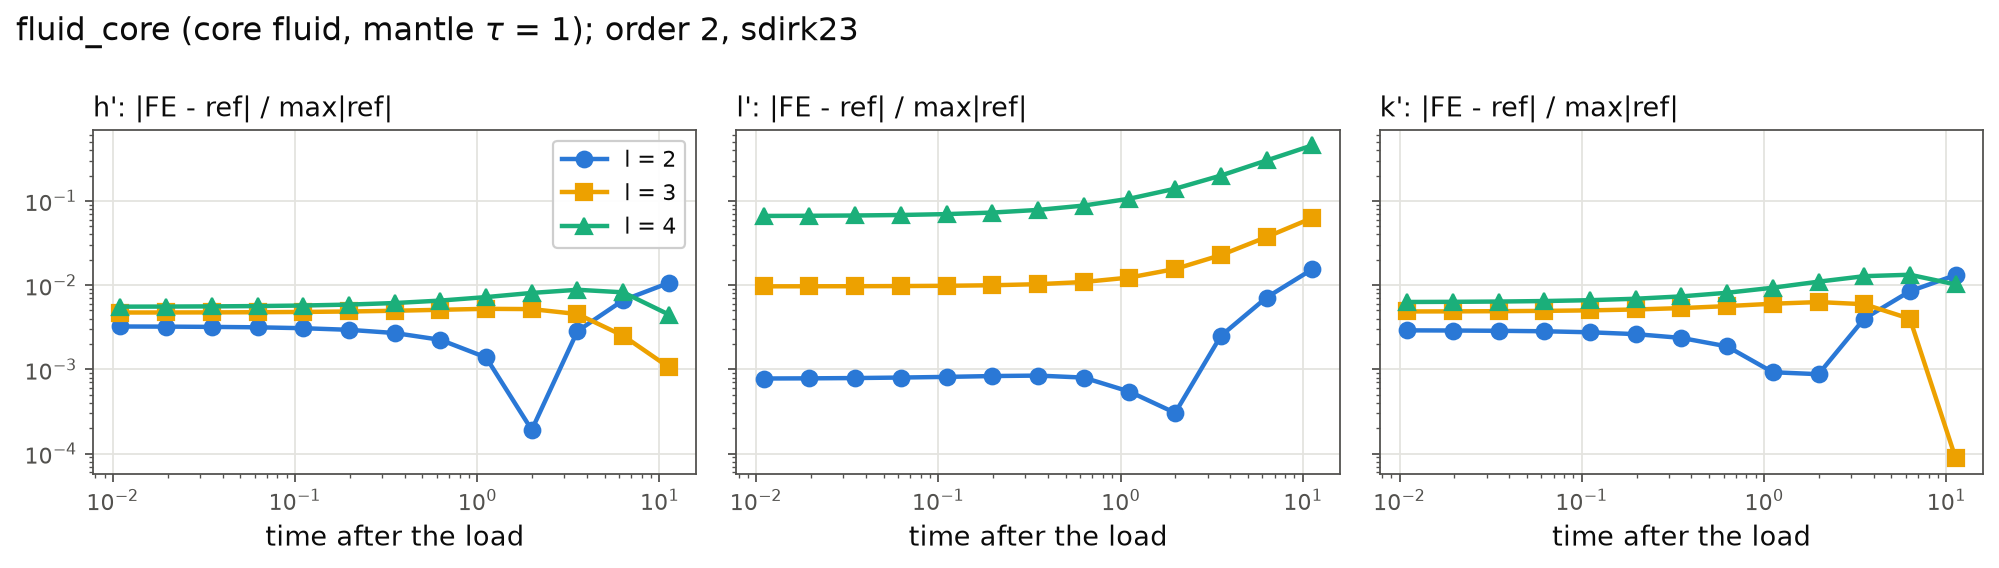
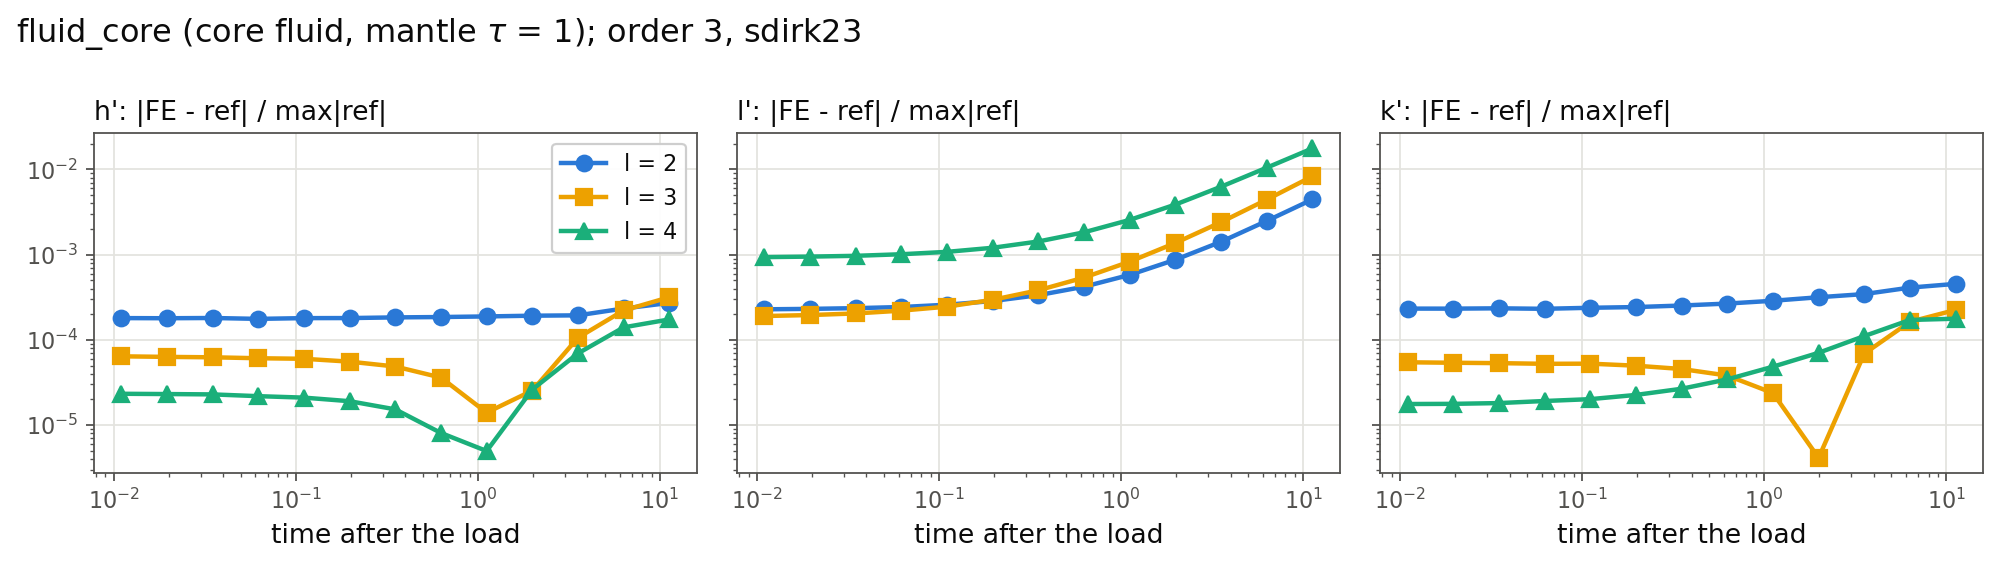
updating benchmarks

diff --git a/doc/benchmarks.tex b/doc/benchmarks.tex
@@ -515,14 +515,15 @@ makes the cases and runs the sweeps; \code{plot.py} and
 \code{dahlen} & Eulerian, fluid eliminated. The fluid enters through the interface terms (F2), (F3) and the fluid mass term (F1) of the potential equation; \code{-cmb} selects the interface treatment (\S\ref{sec:cmb}). \\
 \code{gauged} & Eulerian, the fluid in the displacement space with its bulk modulus and a gauge shear penalty $\eps\,2\mu_g\,\mathrm{dev}\,e(\vu):\mathrm{dev}\,e(\vu')$, $\eps=10^{-2}$ (\code{-geps}), three iterated-Tikhonov refinements per solve (\code{-gref}); \code{-gauge-kkt} replaces the penalty by the exact-gauge saddle (\S\ref{sec:solver-meas}). \\
 \code{referential} & welded gauged referential formulation: bare moduli from $p_0$, equilibrium stress $\mathbf{S}_e=-p_0\mathbf{I}$, the same gauge penalty, prescribed vacuum extension in the buffer. \\
+\code{maxwell} & the referential problem with the fluid treated by MAXWELL RELAXATION (\code{SetFluid}; \code{doc/static\_fluid\_core.tex}, ``The Maxwell relaxation method''): the secular static response by backward-Euler relaxation of an artificial Maxwell core, stopping on the solid increment; \code{-mxbeta} sets the physical-phase $\Delta t/\tau$ (default 3, the $N^2<0$-safe choice). Per-degree stop diagnostics are printed; the degree-1 stop floor on a strongly non-neutral model is the ambiguity band, reported rather than hidden. \\
 \code{slip} & slipping fluid--solid interface: broken displacement pair, single-valued potential; the normal-jump constraint by penalty ($\theta=100$, \code{-theta}) and augmented Lagrangian (8 sweeps, \code{-al}), the early sweeps at the loose relative tolerance $10^{-3}$ (\code{-sweep-tol}, tightened geometrically to the final tolerance); or by a KKT multiplier block (\code{-kkt}, multiplier order \code{-kkt-order}). \\
 \code{slip\_broken} & the same with the potential broken per region too (augmented Lagrangian only). \\
 \bottomrule
 \end{tabular}
 \end{center}
-\noindent Restrictions recorded in the code: the referential and slipping
-methods solve load problems only, so no tidal numbers and no radial
-profiles. The slipping methods support one fluid core inside one solid
+\noindent Restrictions recorded in the code: the referential family
+(\code{referential}, \code{maxwell}) and the slipping methods solve
+load problems only, so no tidal numbers and no radial profiles. The slipping methods support one fluid core inside one solid
 shell, so no inner core. The Eulerian pair have two linear solvers, block
 MINRES (\code{-s 1}) and Schur-complement CG (\code{-s 0}); the referential
 family uses its own projected MINRES. In shift runs
@@ -561,9 +562,32 @@ welded and free-slip solves drift non-monotonically within an envelope of
 about $0.3\,\%$ under $p$-refinement and move with the fluid regulariser;
 neither (i) nor (ii) is resolved separately from (iii) at the resolutions
 run. Offsets of the welded methods against pyslfp on \code{fluid\_core} are
-therefore not attributed to any one of the three. The corresponding 3-D
-decomposition (on \code{aw\_core}) has not been run, nor has the
-$N^2$-scaling of the 2-D envelope.
+therefore not attributed to any one of the three. The
+$N^2$-scaling of the 2-D envelope has not been run.
+
+\paragraph{The 3-D adjudication (8 October 2026).} The \code{aw\_core}
+null test is run and settles the degree-1 question: on the neutral twin
+($h=0.3$, order 2) the degree-1 $h'$ of \code{referential}
+($-1.2462882$), \code{slip} ($-1.2463654$) and \code{maxwell}
+($-1.2463161$) coincide to $6\times10^{-5}$, so the 1--2.6\,\%
+degree-1 welded--slip gap on \code{fluid\_core} is genuine
+non-removability physics, not machinery. On \code{fluid\_core} the
+\code{maxwell} method lands on the welded cluster at every degree
+($h'_2$ within $3.4\times10^{-4}$ of \code{referential}; degree-1
+$h'$ $-1.2442602$, i.e.\ $1.77\,\%$ from Dahlen against welded
+$1.87\,\%$ and \code{slip\_broken} $1.96\,\%$), with its degree-1
+relaxation stopping at an increment floor of $\sim10^{-2}$ --- the
+soft core--shell translation is the band's soft mode, and no
+full-elastic method resolves below the band there (under
+$p$-refinement to order 3 the referential $h'_2$ itself moves
+$1.4\,\%$, the Maxwell $0.2\,\%$). The hierarchy this supports is the
+one of \code{doc/static\_fluid\_core.tex}, ``The status of the
+formulations'': free slip is the inviscid boundary-layer asymptotics
+of the dissipative completion, the Maxwell relaxation is the general
+method (and the honest one: its stop diagnostics report the band),
+Dahlen is its converged spherical closure, and the welded and
+slipping formulations are finite idealisations retained as
+instruments.
 
 \subsection{The CMB treatments}
 \label{sec:cmb}
@@ -2838,6 +2862,7 @@ the stored references (\code{viscoelastic/love/references/}):
 case & $h'$ & $k'$ & $l'_{2}$ / $l'_3$ / $l'_4$ & wall \\
 \midrule
 \code{fluid\_core}, $h=0.3$ & $0.5$--$1.1\times10^{-2}$ & $0.6$--$1.3\times10^{-2}$ & $1.5\times10^{-2}$ / $6.3\times10^{-2}$ / $0.46$ & 90\,s \\
+\code{fluid\_core}, $h=0.3$, order 3 & $1.7$--$3.2\times10^{-4}$ & $1.8$--$4.5\times10^{-4}$ & $4.5\times10^{-3}$ / $8.3\times10^{-3}$ / $1.8\times10^{-2}$ & 393\,s \\
 \code{homogeneous}, $h=0.3$ & $0.6$--$2.3\times10^{-2}$ & $0.7$--$2.9\times10^{-2}$ & $0.19$ / $0.40$ / $1.04$ & 38\,s \\
 \code{homogeneous}, $h=0.2$ & $0.2$--$1.0\times10^{-2}$ & $0.3$--$1.2\times10^{-2}$ & $0.08$ / $0.13$ / $0.30$ & 85\,s \\
 \code{homogeneous\_\allowbreak lithosphere} ($\tau=1,\infty$), $h=0.3$ & $0.3$--$1.0\times10^{-2}$ & $0.4$--$1.6\times10^{-2}$ & $1.8\times10^{-2}$ / $5.1\times10^{-2}$ / $0.10$ & 78\,s \\
@@ -2854,23 +2879,30 @@ $2.2\times10^{-2}\to1.0\times10^{-2}$ from $h=0.3$ to $0.2$), the
 relaxation part more slowly than the elastic part. $l'_4$ is the worst
 resolved: it is small, changes sign, and its error grows late, where the
 buoyancy modes start to matter. A Stehfest order of 16 moves the reference
-by less than $5\times10^{-4}$ there. The local campaign stage
-(\code{--stages viscoelastic plot}) reproduces the \code{fluid\_core} row.
+by less than $5\times10^{-4}$ there. Being spatial, these errors collapse
+under $p$-refinement: the order-3 row (8 October, same stepping) improves
+$h'$ and $k'$ by $16$--$75\times$ and the $l'$ column most dramatically
+--- $l'_4$ from $46\,\%$ to $1.8\,\%$, $l'_3$ from $6.3\,\%$ to
+$0.83\,\%$ --- at $4.4\times$ the wall time (the time stepping unchanged
+at 79 steps, confirming that nothing here is temporal). The local
+campaign stage (\code{--stages viscoelastic plot}) reproduces the
+order-2 \code{fluid\_core} row.
 
 \begin{figure}[H]
 \centering
 \includegraphics[width=0.75\textwidth]{ve_fc_history.png}
-\caption{Histories on a logarithmic time axis (\code{fluid\_core}, local
-campaign): reference (line) and FE (markers) at the 13 default times.}
+\caption{Histories on a logarithmic time axis (\code{fluid\_core},
+order 3): reference (line) and FE (markers) at the 13 default times.}
 \end{figure}
 
 \begin{figure}[H]
 \centering
 \includegraphics[width=0.85\textwidth]{ve_fc_error.png}
 \caption{Pointwise error over the history, relative to the largest
-reference value. The dip of $h'_2$ through zero near $t=2$ is why a
-single-time check would mislead: it scores $2\times10^{-4}$ there against
-a history error of $10^{-2}$.}
+reference value (order 3; the order-2 errors sit $16$--$75\times$
+higher, per the table). At order 2 the dip of $h'_2$ through zero near
+$t=2$ is why a single-time check would mislead: it scores
+$2\times10^{-4}$ there against a history error of $10^{-2}$.}
 \end{figure}
 
 \paragraph{Time series (Figure~\ref{fig:series}).}

diff --git a/doc/static_fluid_core.tex b/doc/static_fluid_core.tex
@@ -643,18 +643,28 @@ space. On \code{fluid\_core} the solver stops honestly at the
 plateau (increment floor $7\times10^{-4}$), landing between the
 welded and slip answers --- inside the band, as it must.
 
-\paragraph{The one caveat.} The discrete limit is the \emph{welded}
-limit: the fluid-relabelling suppression of the welded space is
-inherited, not released (the welded--slip gap at $N^2 \ne 0$ is
-gravitational, not elastic, so zero shear does not remove it). At
-$\ell \ge 2$ this is inside the band and immaterial; at degree 1 on
-non-neutral cores the three-dimensional evidence suggests a
-$\sim 2\,\%$ effect riding the soft core--shell translation. The
-referee for that question is not the slip formulation (itself a
-band-wanderer) but the converged spherical secular answer --- Dahlen
---- and the measurement (relaxation versus Dahlen at degree 1 on
-\code{fluid\_core}, with \code{aw\_core} as the null control) is the
-one open item between this method and unqualified production status.
+\paragraph{The one caveat, now measured.} The discrete limit is the
+\emph{welded} limit: the fluid-relabelling suppression of the welded
+space is inherited, not released (the welded--slip gap at
+$N^2 \ne 0$ is gravitational, not elastic, so zero shear does not
+remove it). The three-dimensional adjudication (8 October,
+\code{love\_benchmark}, \code{-method maxwell}): on the neutral
+control \code{aw\_core} the degree-1 welded, slip and Maxwell
+answers coincide to $6\times10^{-5}$ --- the suppression vanishes
+with $N^2$, as it must; on \code{fluid\_core} the Maxwell answer
+sits on the welded cluster at every degree, at degree 1
+$1.77\,\%$ from Dahlen (welded $1.87\,\%$, the slipping pair
+$2.0$--$4.2\,\%$), and its degree-1 relaxation stops at an
+increment floor of $\sim10^{-2}$: the soft core--shell translation
+is the band's own soft mode, and on a model with $|N^2|$ of order
+the scale no full-elastic method resolves below the band there
+(under $p$-refinement the welded answer itself moves $1.4\,\%$, the
+Maxwell $0.2\,\%$). The right reading is not a defect but the
+method's defining honesty: at $N^2 \ne 0$ the degree-1 static
+response \emph{is} defined only to the band, every formulation
+returns some point of it, and the relaxation is the one that reports
+the fact in its stop diagnostics. For near-neutral (Earth-like)
+cores the band closes and with it the caveat.
 
 %=====================================================================
 \section{Numerical evidence}
@@ -833,11 +843,12 @@ for the dynamic conjecture as well.
 Claim~\ref{claim:nonexist} and Proposition~\ref{prop:quotient} ---
 now best approached jointly with the dynamic argument above.
 (ii) The Maxwell relaxation (\S\ref{sec:maxwell}): the degree-1
-adjudication (relaxation versus Dahlen on \code{fluid\_core},
-\code{aw\_core} as control --- the one open question between the
-method and unqualified production status), the benchmark-grade
-Love-number runs, and the aspherical demonstration --- a static
-fluid-core response on a geometry where no other method exists.
+adjudication and the first benchmark-grade Love-number runs are done
+(8 October; the measured paragraph of \S\ref{sec:maxwell} and
+\code{doc/benchmarks.tex}, ``The 3-D adjudication''); remaining are
+the broader campaign (orders, resolutions, PREM-class models) and
+the aspherical demonstration --- a static fluid-core response on a
+geometry where no other method exists.
 (iii) A clean measurement of the band's $N^2$-scaling (the
 one-dimensional tool does each point in seconds; the current
 two-resolution estimator is noisy).

diff --git a/doc/planning/open_issues.md b/doc/planning/open_issues.md
@@ -304,15 +304,17 @@ Analytic continuous b in the constraint kernels had no effect in the lab.
 
 ### Which tangential slips are removable by relabelling (including N² = 0)
 
-**Status:** open; the N² = 0 premise is confirmed numerically in 2-D
-(7 Oct 2026, below), the 3-D `aw_core` degree-1 null test remains. The
-reference documents state the conservative
-position — tangential slip is not gauge in general; the slipping
-formulation is the general one; the welded gauged formulation is used
-where the suppressed slip is absent or removable, e.g. on spherically
-symmetric models, where welded and slipping solutions agree to
-discretisation level (1.1e-3 solid displacement on the 2-D two-layer
-disc). The N² = 0 case is deliberately left open there.
+**Status:** adjudicated at the level the benchmarks can measure
+(8 Oct 2026, below): the N² = 0 removability is confirmed in 2-D AND
+3-D (the `aw_core` degree-1 null test passes at 6e-5), the
+`fluid_core` degree-1 welded–slip gap is genuine non-removability
+physics, and the formulation hierarchy has been inverted —
+free slip is the inviscid boundary-layer asymptotics of the
+dissipative completion, the Maxwell relaxation
+(`doc/static_fluid_core.tex`) is the general method, and welded and
+slip are its finite idealisations. What remains open is the
+functional-analytic premise (below) and the aspherical
+characterisation; neither blocks production.
 
 *The question.* A tangential slip j on a fluid–solid interface Σ is
 removable by relabelling iff it extends into the fluid as an
@@ -395,6 +397,29 @@ against pyslfp previously read as one of these are not attributable;
 (iii) remaining: the 3-D `aw_core` degree-1 null test (welded ≡ slip ≡
 Dahlen expected), and the N²-scaling of the envelope, which the 2-D
 instrument can measure but has not run.
+
+*3-D adjudication (8 Oct 2026).* Item (iii)'s null test is run and
+passes: on the `aw_core` h = 0.3 order-2 case (N² = 0), the degree-1
+h' of referential (welded, −1.2462882), slip (−1.2463654) and the
+Maxwell relaxation (−1.2463161) coincide to 6e-5 — the fluid_core
+degree-1 welded–slip gap (1–2.6 %) vanishes identically on the
+neutral twin, so that gap is genuine non-removability physics, as
+conjectured. On `fluid_core` itself (same case family, order 2,
+lmax 4, `-method maxwell` now in `love_benchmark`) the Maxwell
+relaxation lands on the welded cluster at every degree (h'₂ within
+3.4e-4 of referential) including degree 1 (−1.2442602, 1.77 % from
+Dahlen's −1.2226460, against welded 1.87 % and slip_broken 1.96 %),
+with an honestly reported degree-1 stop floor of ~1e-2 (the l = 1
+relaxation stalls at the band: the soft core–shell translation IS the
+band's soft mode on this violently non-neutral model, and no
+full-elastic method resolves below it — at order 3 the referential
+h'₂ itself moves 1.4 % while Maxwell moves 0.2 %, the familiar
+wandering). Reading per the inverted hierarchy (referee = Dahlen,
+the converged secular closure): at N² = 0 everything coincides; at
+N² ≠ 0 the degree-1 response is defined only to the band, every
+formulation sits inside it, and the Maxwell method is the one that
+*says so* in its stop diagnostics rather than silently returning a
+point of the band.
 
 **See:** `doc/gravitating_elasticity.md` §5, §5.1, §5.2;
 `doc/gauged_fluid.md` §2 "Tangential slip and the welded space",
